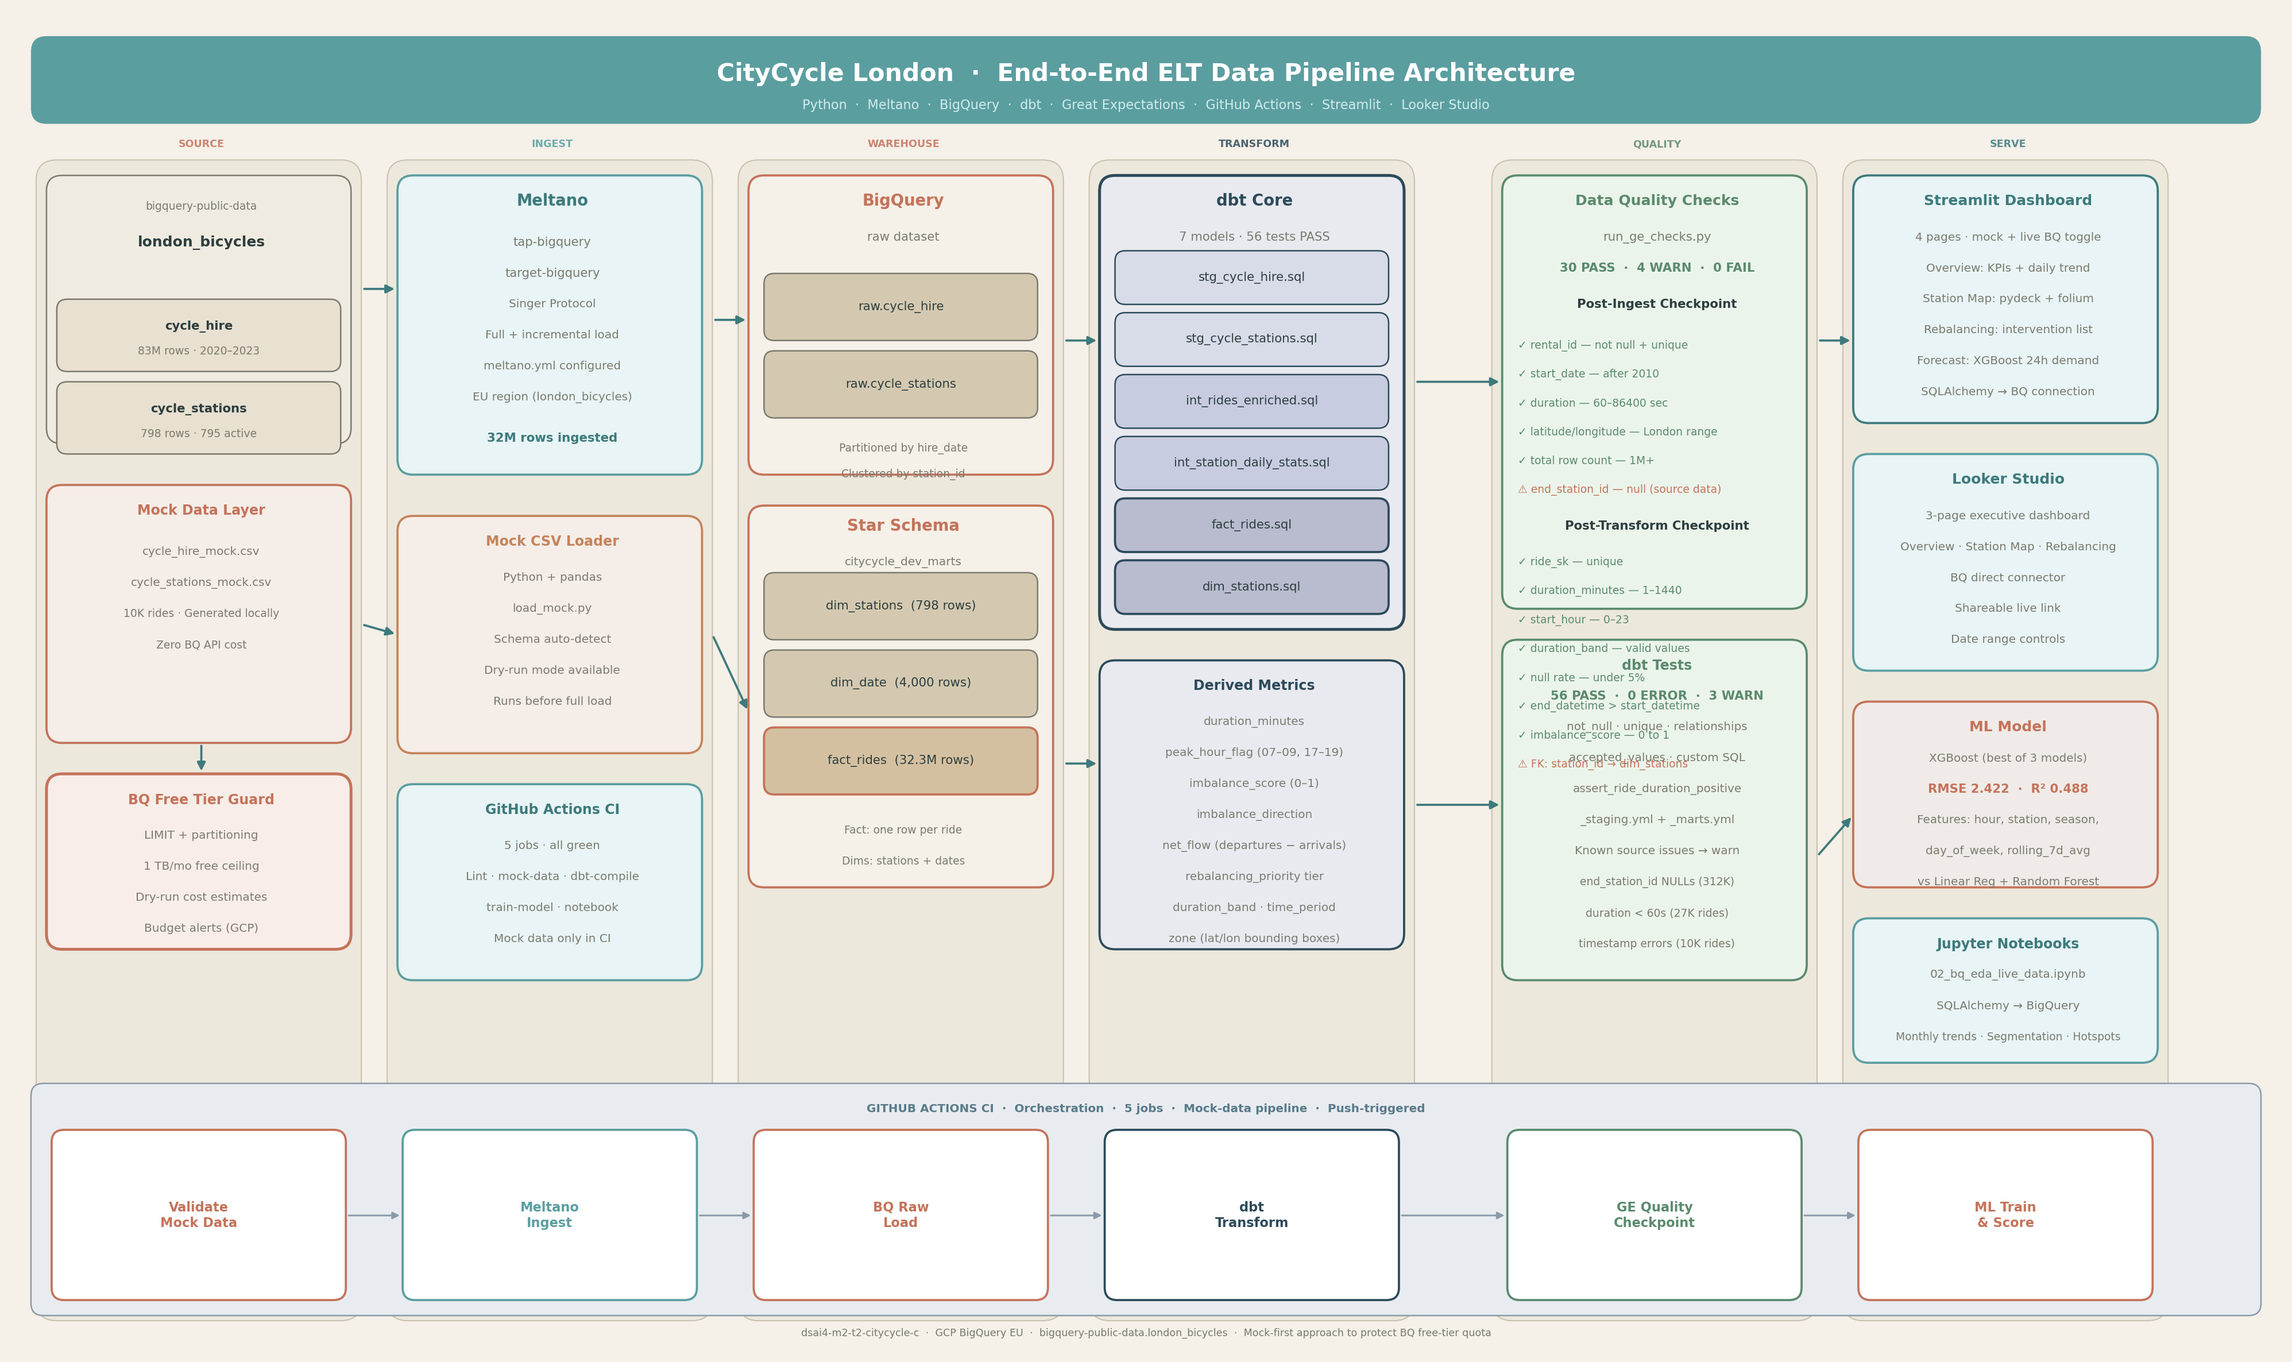
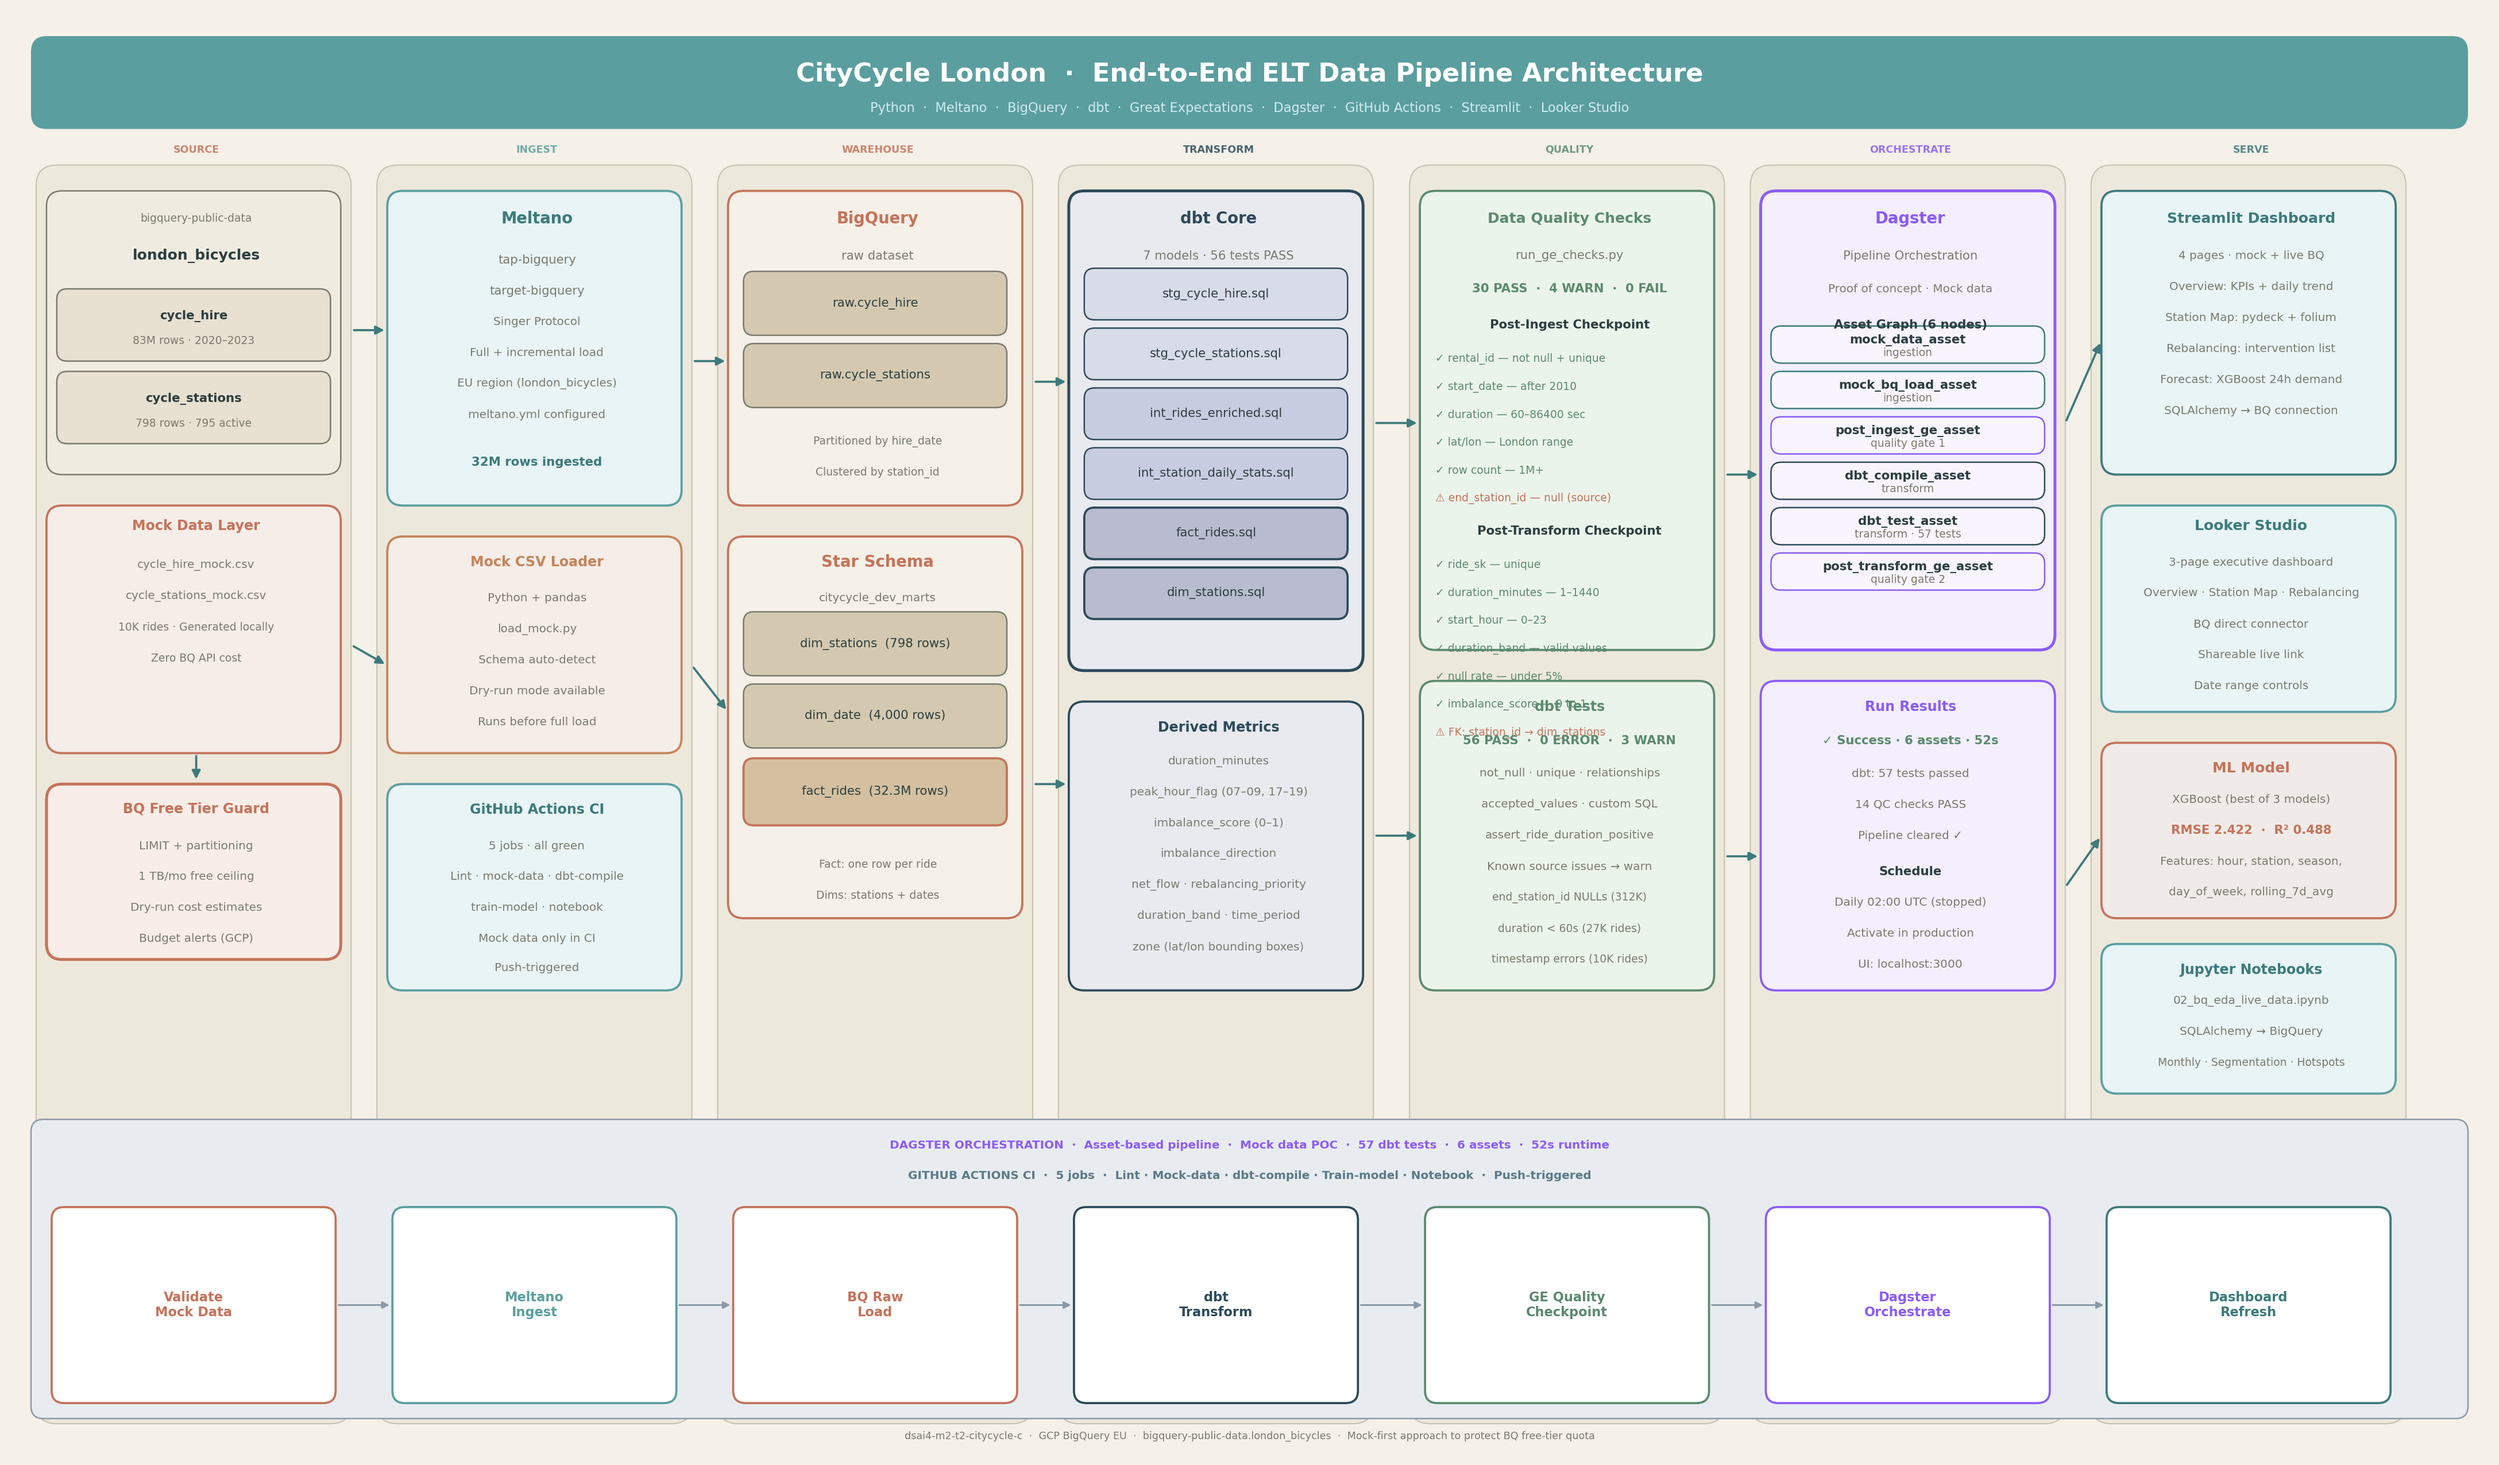
docs: Replace README image with Dagster run success and update dataflow diagram.

diff --git a/README.md b/README.md
@@ -352,7 +352,7 @@ Dagster manages the data pipeline as software-defined assets with explicit depen
 
 **Asset dependency graph:**
 
-![Dagster Asset Graph](docs/diagrams/dagster_asset_graph.svg)
+![Dagster Run Success](docs/diagrams/dagster_run_success.png)
 
 **Pipeline execution order:**
 
